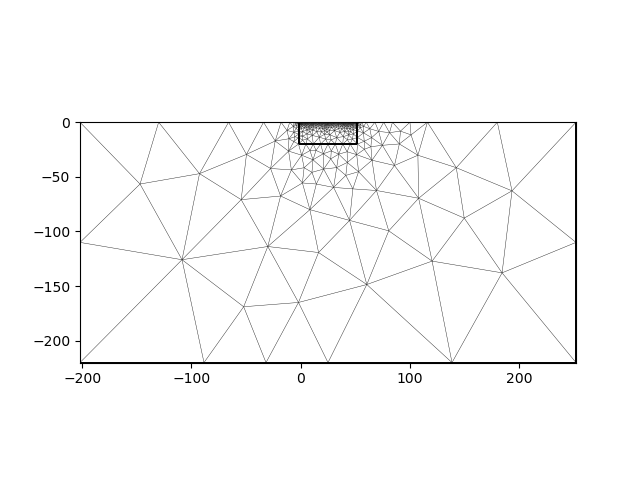
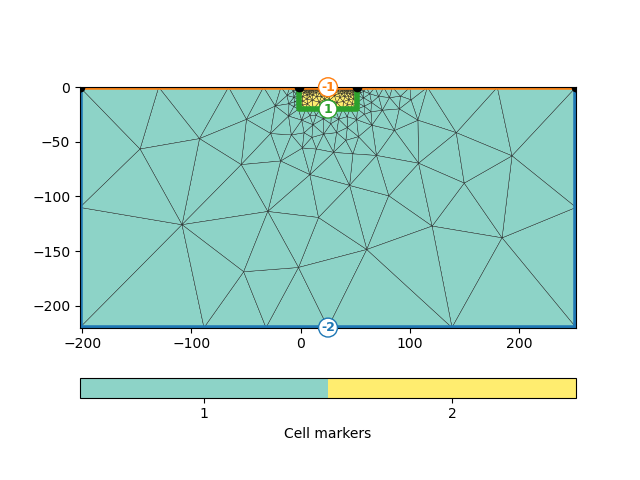
feat: progress in pygimli_ert

diff --git a/notebooks/pygimli_ert/tmp/attempt_to_fix_background.py b/notebooks/pygimli_ert/tmp/attempt_to_fix_background.py
@@ -1,3 +1,4 @@
+from matplotlib import markers
 import matplotlib.pyplot as plt
 import numpy as np
 
@@ -16,14 +17,14 @@ scheme = ert.createData(elecs=np.linspace(start=0, stop=50, num=51), schemeName=
 world = meshtools.createWorld(start=[-55,0], end=[105,-80], worldMarker=True)
 conductive_anomaly = meshtools.createCircle(pos=[10,-7], radius=5, marker=2)
 geom = world + conductive_anomaly
-ax = pygimli.show(geom)
-ax[0].figure.savefig("figs/true_geometry")
+# ax = pygimli.show(geom)
+# ax[0].figure.savefig("figs/true_geometry")
 for s in scheme.sensors():          # local refinement 
     geom.createNode(s + [0.0, -0.2])
 rhomap = [[1, 200], [2,  50],]
 mesh = meshtools.createMesh(geom, quality=33)
 ax = pygimli.show(mesh, data=rhomap, label="$\Omega m$", showMesh=True)
-ax[0].figure.savefig("figs/true_model_coarse")
+ax[0].figure.savefig("figs/model_true")
 # mesh = mesh.createH2()
 # ax = pygimli.show(mesh, data=rhomap, label="$\Omega m$", showMesh=True)
 # ax[0].figure.savefig("figs/true_model")
@@ -37,38 +38,30 @@ log_data = np.log(data['rhoa'].array())
 # ax[0].figure.savefig("figs/data")
 
 # inverse mesh
-# iworld = meshtools.createWorld(start=[-55,0], end=[105,-80], worldMarker=True)
-iworld = meshtools.createWorld(start=[-205, 0], end=[255, -230], worldMarker=True, marker=1)
-inv_area = meshtools.createRectangle(start=[-5, 0], end=[55, -20], marker=2)
-igeom = iworld + inv_area
-for s in scheme.sensors():
-    igeom.createNode(s + [0.0, -0.1])
-iworld_mesh = meshtools.createMesh(igeom, quality=34)
-inv_mesh = meshtools.createMesh(inv_area)
-inv_mesh.createMeshByMarker(iworld_mesh, 2)
-ax = pygimli.show(iworld_mesh, label="$\Omega m$", showMesh=True, markers=True)
-ax[0].figure.savefig("figs/inverse_mesh_background")
-# print(inv_mesh.cellCount())
+mgr = ert.ERTManager(data, verbose=False, useBert=True)
+inv_mesh = mgr.createMesh(data)
+mgr.applyMesh(inv_mesh)
+ax = pygimli.show(inv_mesh, showMesh=True, markers=True)
+ax[0].figure.savefig("figs/gauss_newton_inv_mesh")
 
 # ert.ERTModelling
-forward_operator = ert.ERTModelling(sr=False, verbose=False)
+# forward_operator = ert.ERTModelling(sr=False, verbose=False)
+forward_operator = mgr.fop
 forward_operator.setComplex(False)
 forward_operator.setData(scheme)
-forward_operator.setMesh(iworld_mesh, ignoreRegionManager=True)
-
-# starting model
-start_model = np.ones(inv_mesh.cellCount()) * 80.0
-ax = pygimli.show(inv_mesh, data=start_model, label="$\Omega m$", showMesh=True)
-ax[0].figure.savefig("figs/start_model")
+forward_operator.setMesh(inv_mesh, ignoreRegionManager=True)
 
 # weighting matrix for regularisation
 region_manager = forward_operator.regionManager()
-region_manager.setMesh(inv_mesh)
 region_manager.setConstraintType(2)
 Wm = pygimli.matrix.SparseMapMatrix()
 region_manager.fillConstraints(Wm)
 Wm = pygimli.utils.sparseMatrix2coo(Wm)
 
+# starting model
+start_model = np.ones(mgr.paraDomain.cellCount()) * np.median(data['rhoa'].array())
+ax = pygimli.show(mgr.paraDomain, data=start_model, label="$\Omega m$", showMesh=True)
+ax[0].figure.savefig("figs/model_start")
 
 def get_response(model, forward_operator):
     return np.log(np.array(forward_operator.response(model)))
@@ -174,19 +167,19 @@ inv_options = InversionOptions()
 inv_options.set_tool(GaussNewton)
 inv_options.set_params(niter=niter, verbose=inv_verbose)
 
-# # CoFI - define Inversion, run it
-# inv = Inversion(ert_problem, inv_options)
-# inv_result = inv.run()
+# CoFI - define Inversion, run it
+inv = Inversion(ert_problem, inv_options)
+inv_result = inv.run()
 
-# # plot inferred model
-# inv_result.summary()
-# ax = pygimli.show(imesh, data=inv_result.model, label=r"$\Omega m$")
-# ax[0].set_title("Inferred model")
-# ax[0].figure.savefig("figs/pygimli_ert_gauss_newton_inferred")
+# plot inferred model
+inv_result.summary()
+ax = pygimli.show(mgr.paraDomain, data=inv_result.model, label=r"$\Omega m$")
+ax[0].set_title("Inferred model")
+ax[0].figure.savefig("figs/gauss_newton_inferred_model")
 
-# # plot synthetic data
-# data = ert.simulate(imesh, scheme=scheme, res=inv_result.model)
-# data.remove(data['rhoa'] < 0)
-# log_data = np.log(data['rhoa'].array())
-# ax = ert.show(data)
-# ax[0].figure.savefig("figs/data_synth_inferred")
+# plot synthetic data
+data = ert.simulate(mgr.paraDomain, scheme=scheme, res=inv_result.model)
+data.remove(data['rhoa'] < 0)
+log_data = np.log(data['rhoa'].array())
+ax = ert.show(data)
+ax[0].figure.savefig("figs/gauss_newton_inferred_data")

diff --git a/notebooks/pygimli_ert/tmp/pygimli_ert_inbuilt_invert.py b/notebooks/pygimli_ert/tmp/pygimli_ert_inbuilt_invert.py
@@ -39,17 +39,10 @@ ax[0].figure.savefig("figs/data")
 
 mgr = ert.ERTManager(data, verbose=True, useBert=True)
 
-inv_mesh = mgr.createMesh(data)
-print(inv_mesh)
-ax = pygimli.show(inv_mesh, showMesh=True)
-ax[0].figure.savefig("inv_mesh")
+inv = mgr.invert(lam=20, verbose=True)
+fig = mgr.showResultAndFit()
+fig.savefig("figs/invert_result")
 
-# inv = mgr.invert(lam=20, verbose=True)
-# fig = mgr.showResultAndFit()
-# fig.savefig("figs/invert_result")
-# print(mgr.model)
-
-# print(mgr.mesh)
 
 # ax = pygimli.show(mgr.mesh, data=mgr.model, showMesh=True)
 # ax[0].figure.savefig("resulting_mesh")

diff --git a/notebooks/pygimli_ert/tmp/pygimli_ert_scipy_minimize.py b/notebooks/pygimli_ert/tmp/pygimli_ert_scipy_minimize.py
@@ -68,8 +68,6 @@ Wm = pygimli.matrix.SparseMapMatrix()
 region_manager.fillConstraints(Wm)
 Wm = pygimli.utils.sparseMatrix2coo(Wm)
 
-print(Wm)
-
 
 def get_response(model, forward_operator):
     return np.log(np.array(forward_operator.response(model)))
